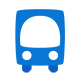
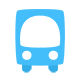
Add colored buses

Changed region(s): [[0.175, 0.1, 0.825, 0.925]]

diff --git a/app.js b/app.js
@@ -109,10 +109,12 @@ function processRoutes(cb) {
 		.on('data', (line) => {
 			
 			_routes.push({
-				id:      line.route_id,
-				type:    parseInt(line.route_type),
-				number:  line.route_short_name,
-				color:   line.route_color
+				id:     line.route_id,
+				type:   parseInt(line.route_type),
+				short_name: line.route_short_name,
+				long_name:  line.route_long_name,
+				color: line.route_color,
+				owner: line.competent_authority === 'Pärnu LV' ?  'parnu' : line.competent_authority === 'Tartu LV' || line.competent_authority === 'Tartu MV' ? 'tartu' : 'other'
 			});
 			
 		}).on('end', () => {
@@ -331,16 +333,17 @@ function getStaticData(id) {
 		var route = getRouteForTrip(trip);
 		
 		try {
-			if (time.time === last.time && route.number === last.number) continue;
+			if (time.time === last.time && route.short_name === last.short_name) continue;
 		} catch(e) {}
 		
 		last.time = time.time;
-		last.number = route.number;
+		last.short_name = route.short_name;
 		
 		trips.push({
 			type:   route.color === 'E6FA32' || route.color === 'F55ADC' || route.color === '00933C' ? 'coach' : route.type === 3 ? 'bus' : route.type === 800 ? 'trol' : route.type === 0 ? 'tram' : route.type === 2 ? 'train' : 'ship',
-			number: route.number,
-			time:   time.time
+			short_name: route.short_name,
+			time:   time.time,
+			owner:  route.owner
 		});
 		
 	}

diff --git a/static/script.js b/static/script.js
@@ -61,7 +61,7 @@ function showStop(id, settings) {
 			if (live) {
 				content += '<div class="trip"><img class="trip-type" src="assets/' + trip.type + '.png"><div class="trip-number">' + trip.number + '</div><div class="trip-scheduled">' + toCountdown(trip.scheduled) + '</div><div class="trip-expected">' + toCountdown(trip.expected) + '</div></div>';
 			} else {
-				content += '<div class="trip"><img class="trip-type" src="assets/' + trip.type + '.png"><div class="trip-number">' + trip.number + '</div><div class="trip-scheduled" data-time="' + trip.time + '">' + toCountdown(trip.time) + '</div><div class="trip-expected">' + toTime(trip.time) + '</div></div>';
+				content += '<div class="trip"><img class="trip-type" src="assets/' + (trip.type === 'bus' ? trip.owner === 'tartu' ? 'bus_red' : trip.owner === 'parnu' ? 'bus_blue' : 'bus' : trip.type) + '.png"><div class="trip-number">' + trip.short_name + '</div><div class="trip-scheduled" data-time="' + trip.time + '">' + toCountdown(trip.time) + '</div><div class="trip-expected">' + toTime(trip.time) + '</div></div>';
 			}
 			
 		}
